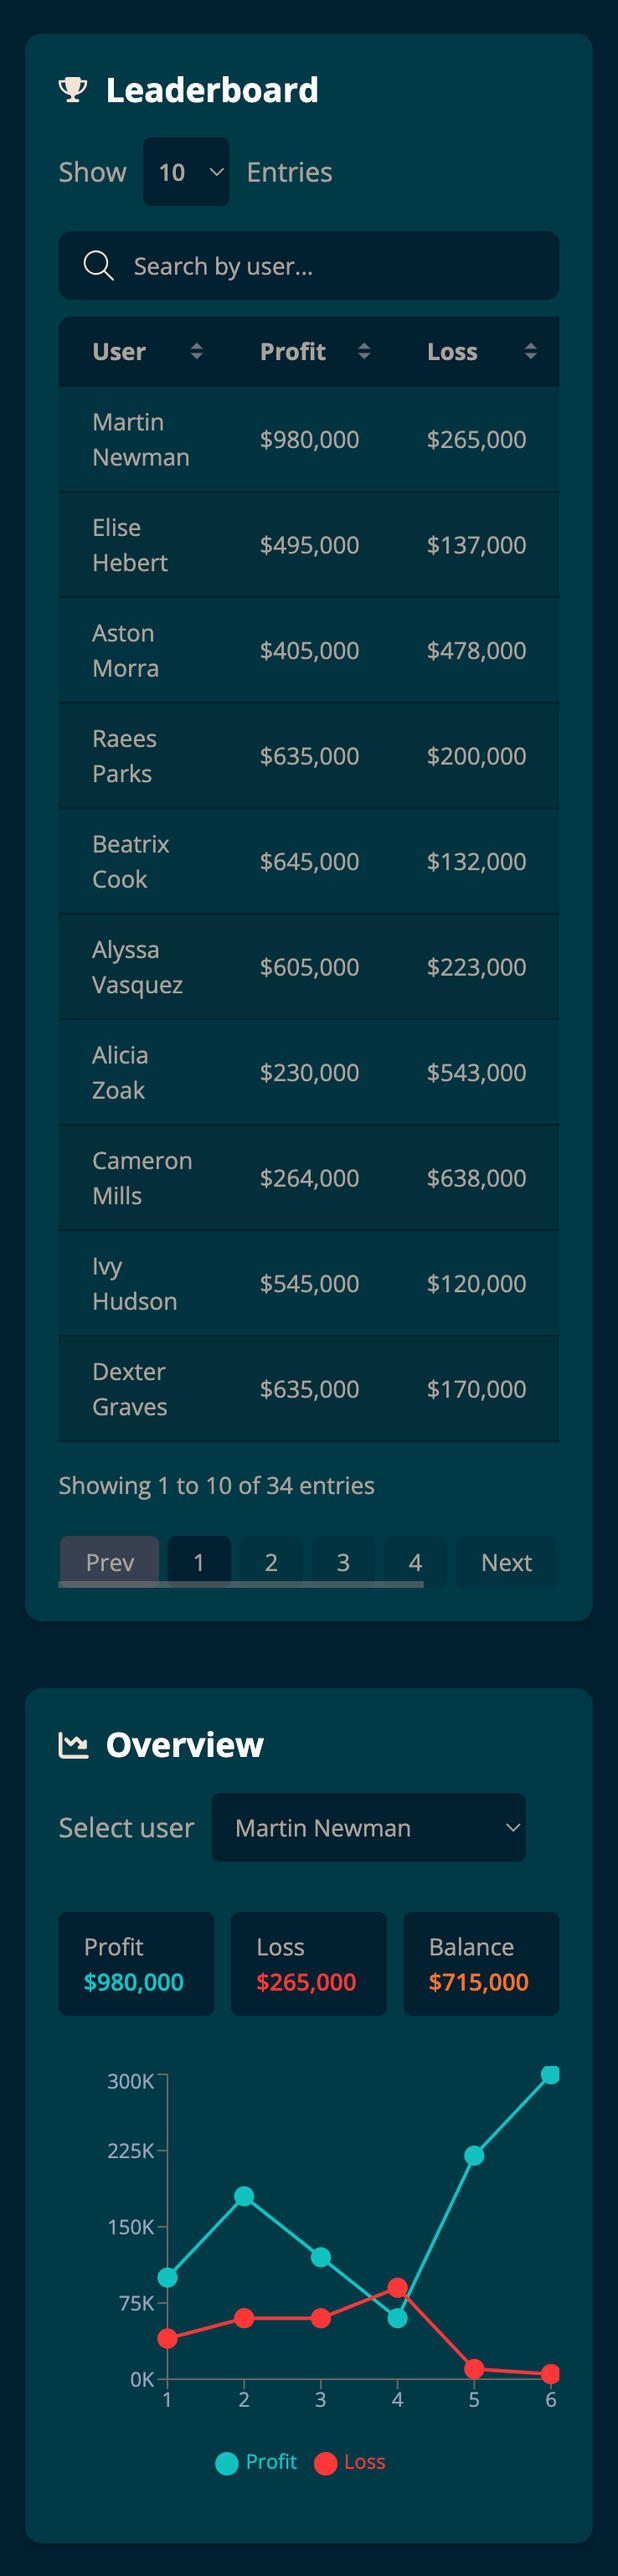
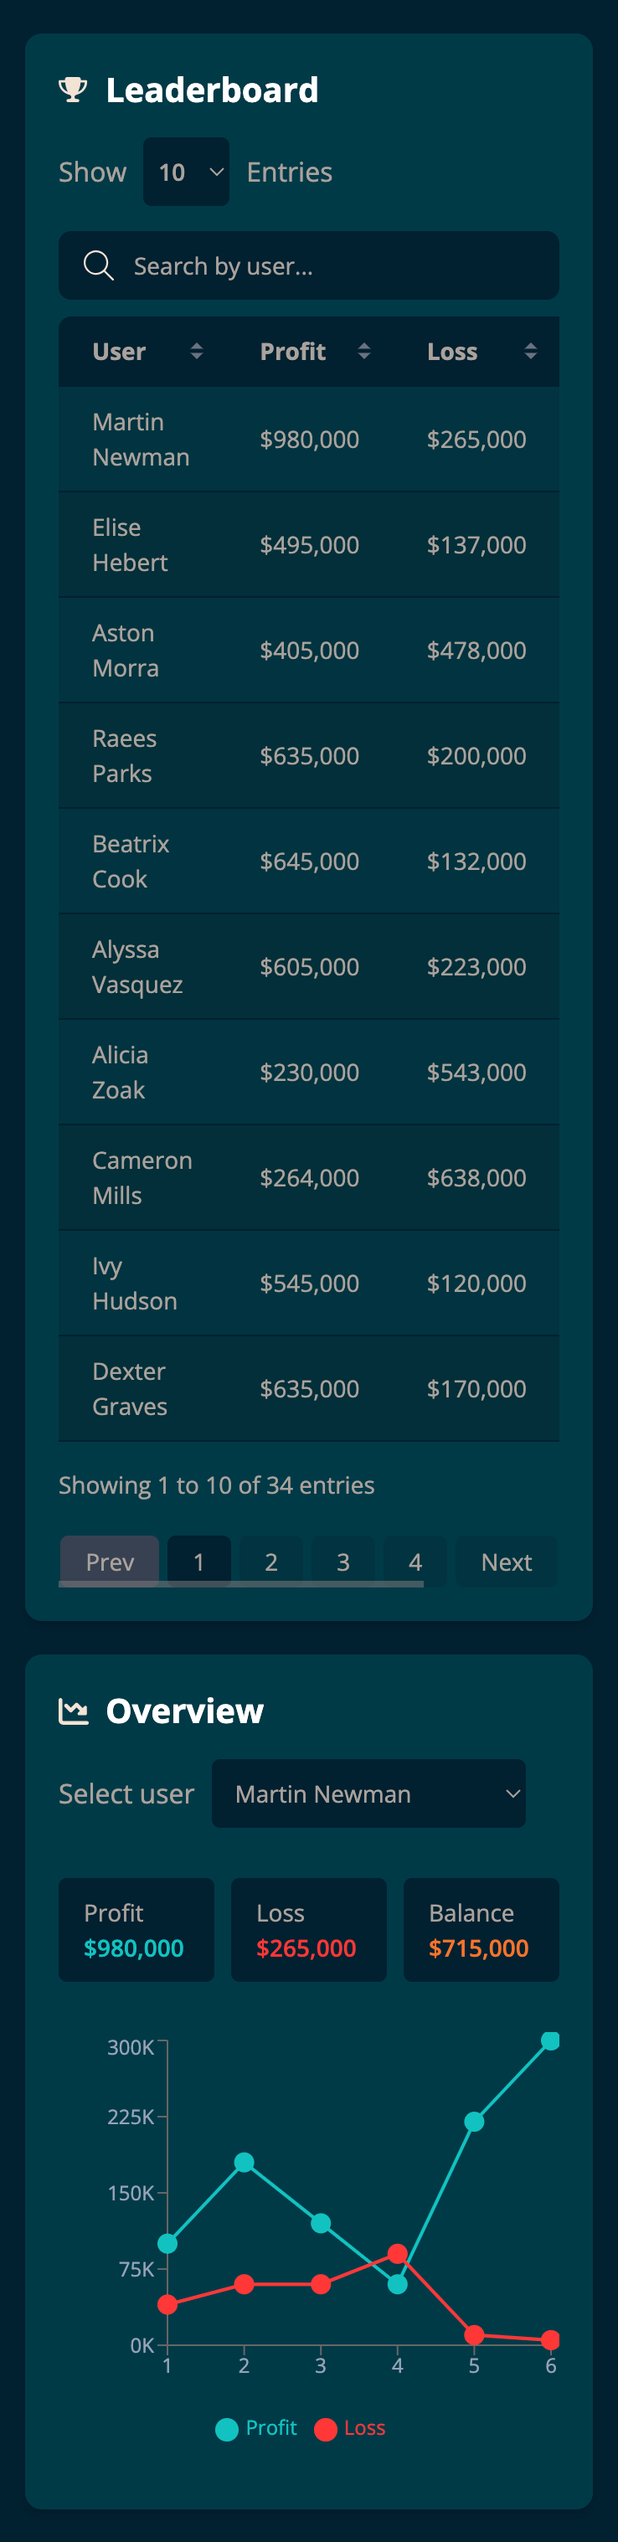
Refactoring

diff --git a/src/App.tsx b/src/App.tsx
@@ -11,7 +11,7 @@ export default function App() {
         </section>
 
         {/* Overview Section */}
-        <section className="mt-8 bg-secondary p-4 rounded-lg shadow-md">
+        <section className="mt-4 sm:mt-8 bg-secondary p-4 rounded-lg shadow-md">
           <Overview />
         </section>
       </div>
